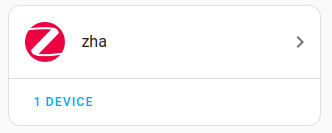
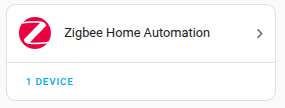
ZBT-1: update screenshots and steps to reflect current SW (#625)
* ZBT-1: update screenshots and steps to reflect current SW

* Remove obsolete screenshots

* Update ZHA screenshot

* Update zha integration screenshot

diff --git a/src/connect-zbt-1/getting-started/form-new-zigbee-network.md b/src/connect-zbt-1/getting-started/form-new-zigbee-network.md
@@ -37,12 +37,12 @@ zendesk:
 {% endstep %}
 
 {% step "Locating the Home Assistant Connect&nbsp;ZBT-1 integration" %}
-{% image "/static/img/connect-zbt-1/connect-zbt-1-discovered-01.png" "Locate the Connect ZBT-1 integration" %}
+{% image "/static/img/connect-zbt-1/connect-zbt-1-add.png" "Locate the Connect ZBT-1 integration" %}
 {% stepContent %}
 
 - Go to [**Settings** > **Devices & services**](https://my.home-assistant.io/redirect/integrations/).
 - Connect ZBT-1 should now have been discovered.
-- Select **Configure**.
+- Select **Add**.
 
 {% endstepContent %}
 {% endstep %}
@@ -67,11 +67,11 @@ zendesk:
 {% endstep %}
 
 {% step "Configuring the Zigbee Home Automation integration" %}
-{% image "/static/img/connect-zbt-1/connect-zbt-1_zha-discovered.png" "Configure the Zigbee Home Automation integration" %}
+{% image "/static/img/connect-zbt-1/zbt-1-zha-discovered.png" "Configure the Zigbee Home Automation integration" %}
 {% stepContent %}
 
 - Connect ZBT-1 will be shown in your **Zigbee Home Automation integration**.
-- Select **Configure**.
+- Select **Add**.
 - To confirm, select **Submit**.
 
 {% endstepContent %}

diff --git a/src/connect-zbt-1/getting-started/migrate-existing-zha-network-from-backup.md b/src/connect-zbt-1/getting-started/migrate-existing-zha-network-from-backup.md
@@ -87,12 +87,12 @@ Please note that not all settings can be migrated in this case:
 {% endstep %}
 
 {% step "Locating the Connect ZBT-1 integration" %}
-{% image "/static/img/connect-zbt-1/connect-zbt-1-discovered-01.png" "Locating the Connect ZBT-1 integration" %}
+{% image "/static/img/connect-zbt-1/connect-zbt-1-add.png" "Locating the Connect ZBT-1 integration" %}
 {% stepContent %}
 
 1. Go to [**Settings** > **Devices & services**](https://my.home-assistant.io/redirect/integrations/).
 2. Connect ZBT-1 should now have been discovered.
-3. Select **Configure**.
+3. Select **Add**.
 
 {% endstepContent %}
 {% endstep %}
